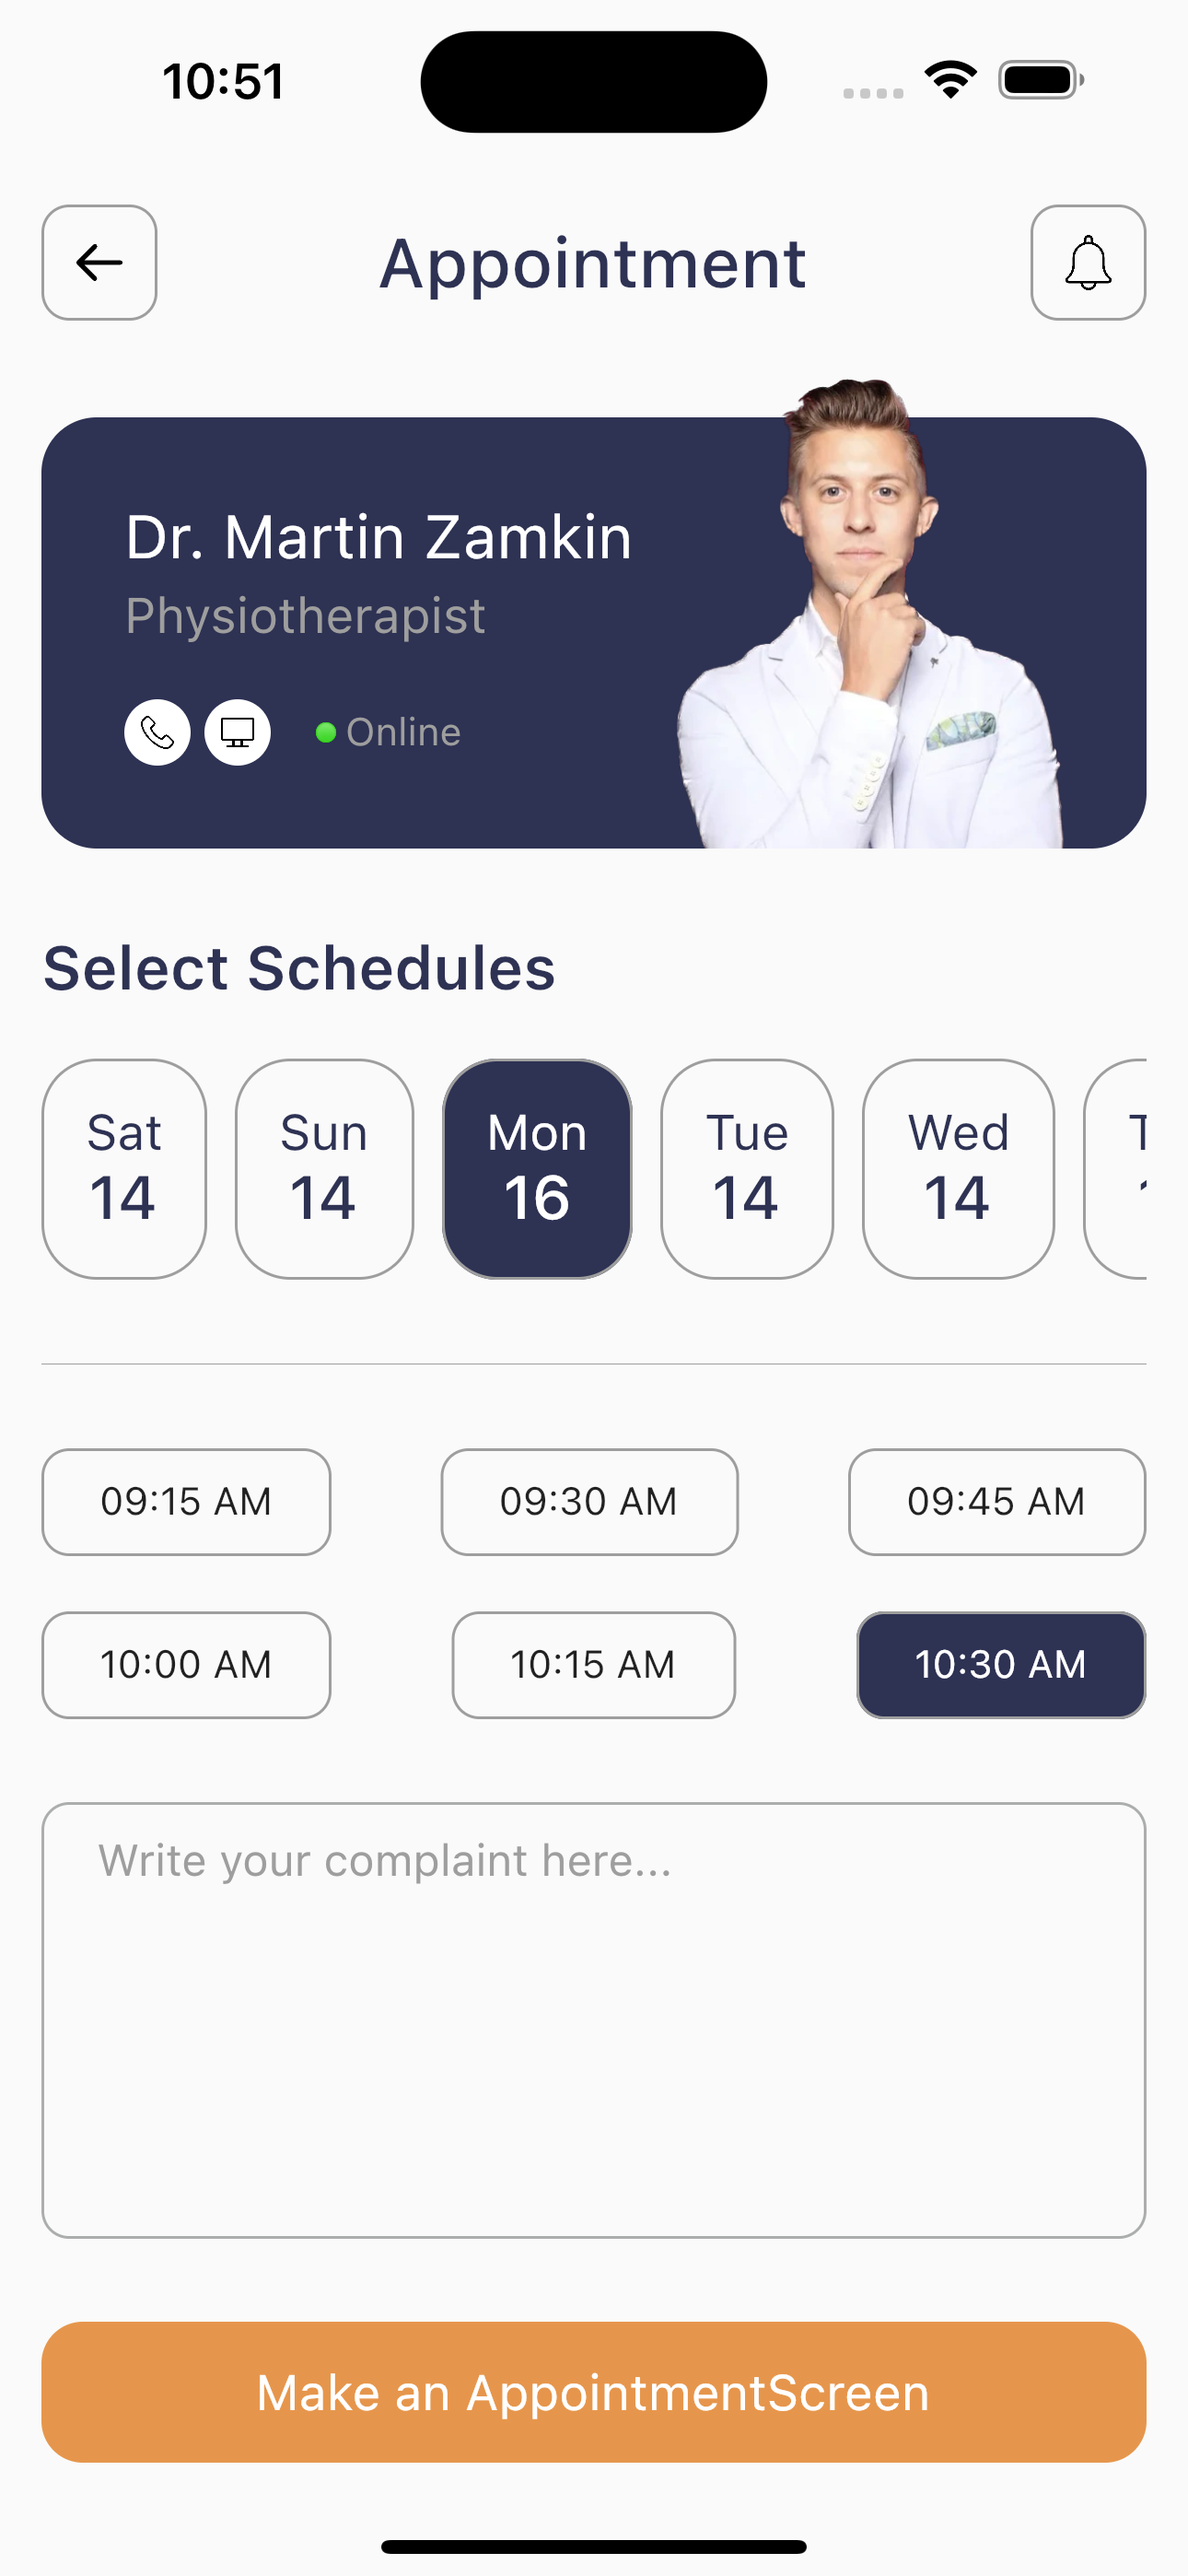
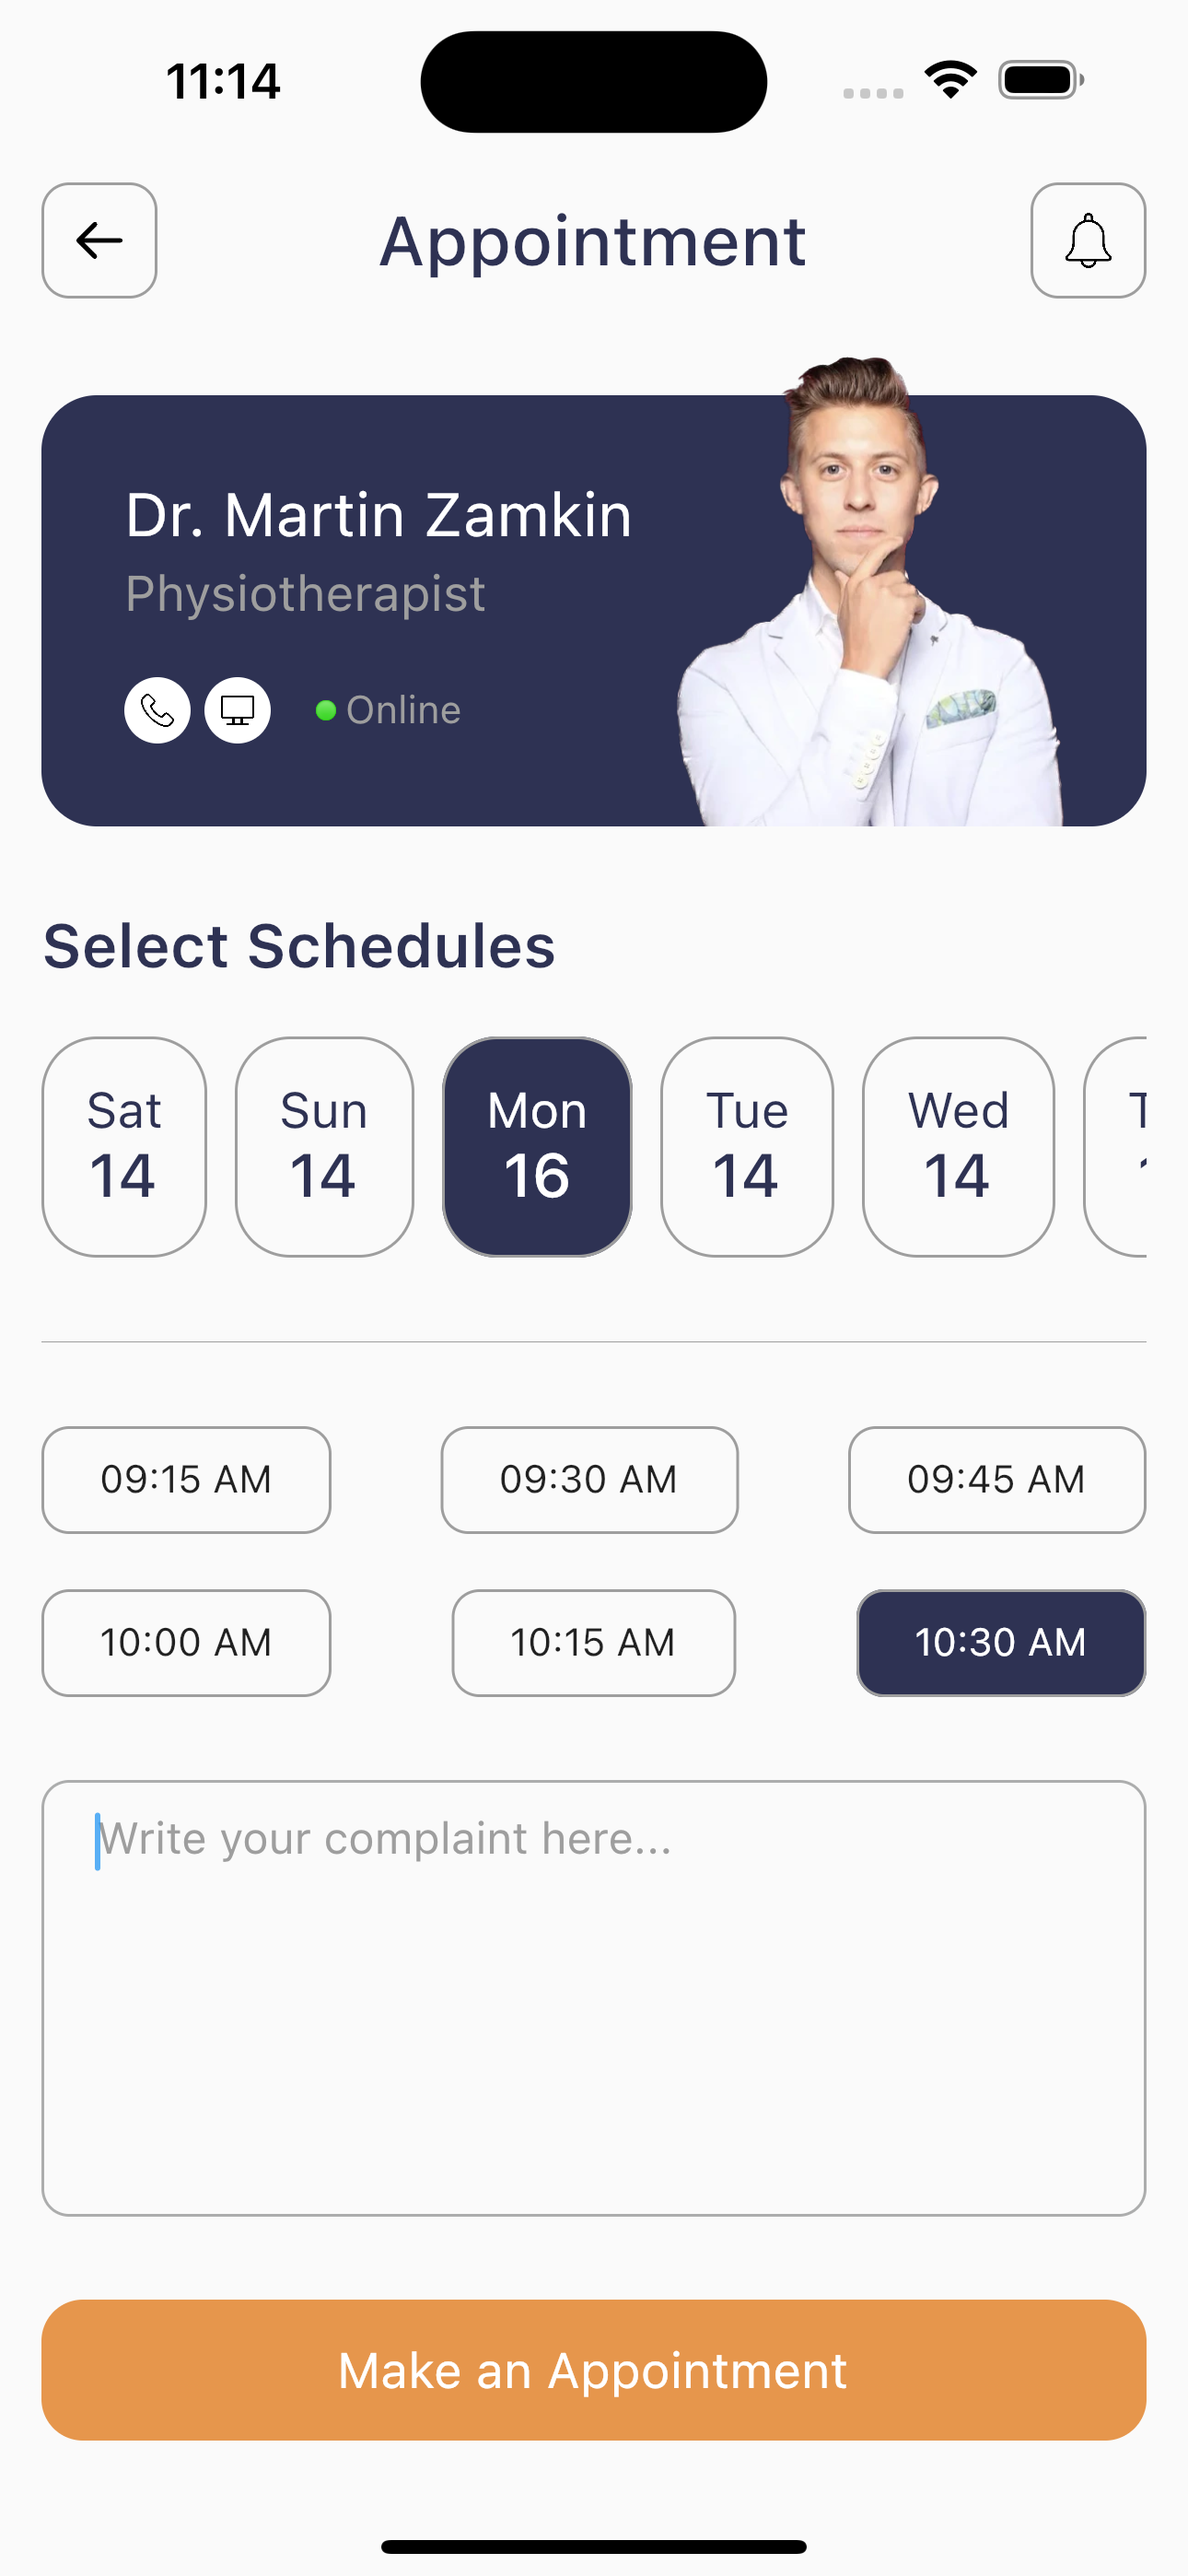
replaced some readme files

diff --git a/lib/screens/appointment/widgets/complaint.dart b/lib/screens/appointment/widgets/complaint.dart
@@ -58,7 +58,7 @@ class Complaint extends StatelessWidget {
               child: const Align(
                 alignment: Alignment.center,
                 child: Text(
-                  'Make an AppointmentScreen',
+                  'Make an Appointment',
                   style: TextStyle(color: Colors.white, fontSize: 18),
                 ),
               )),
